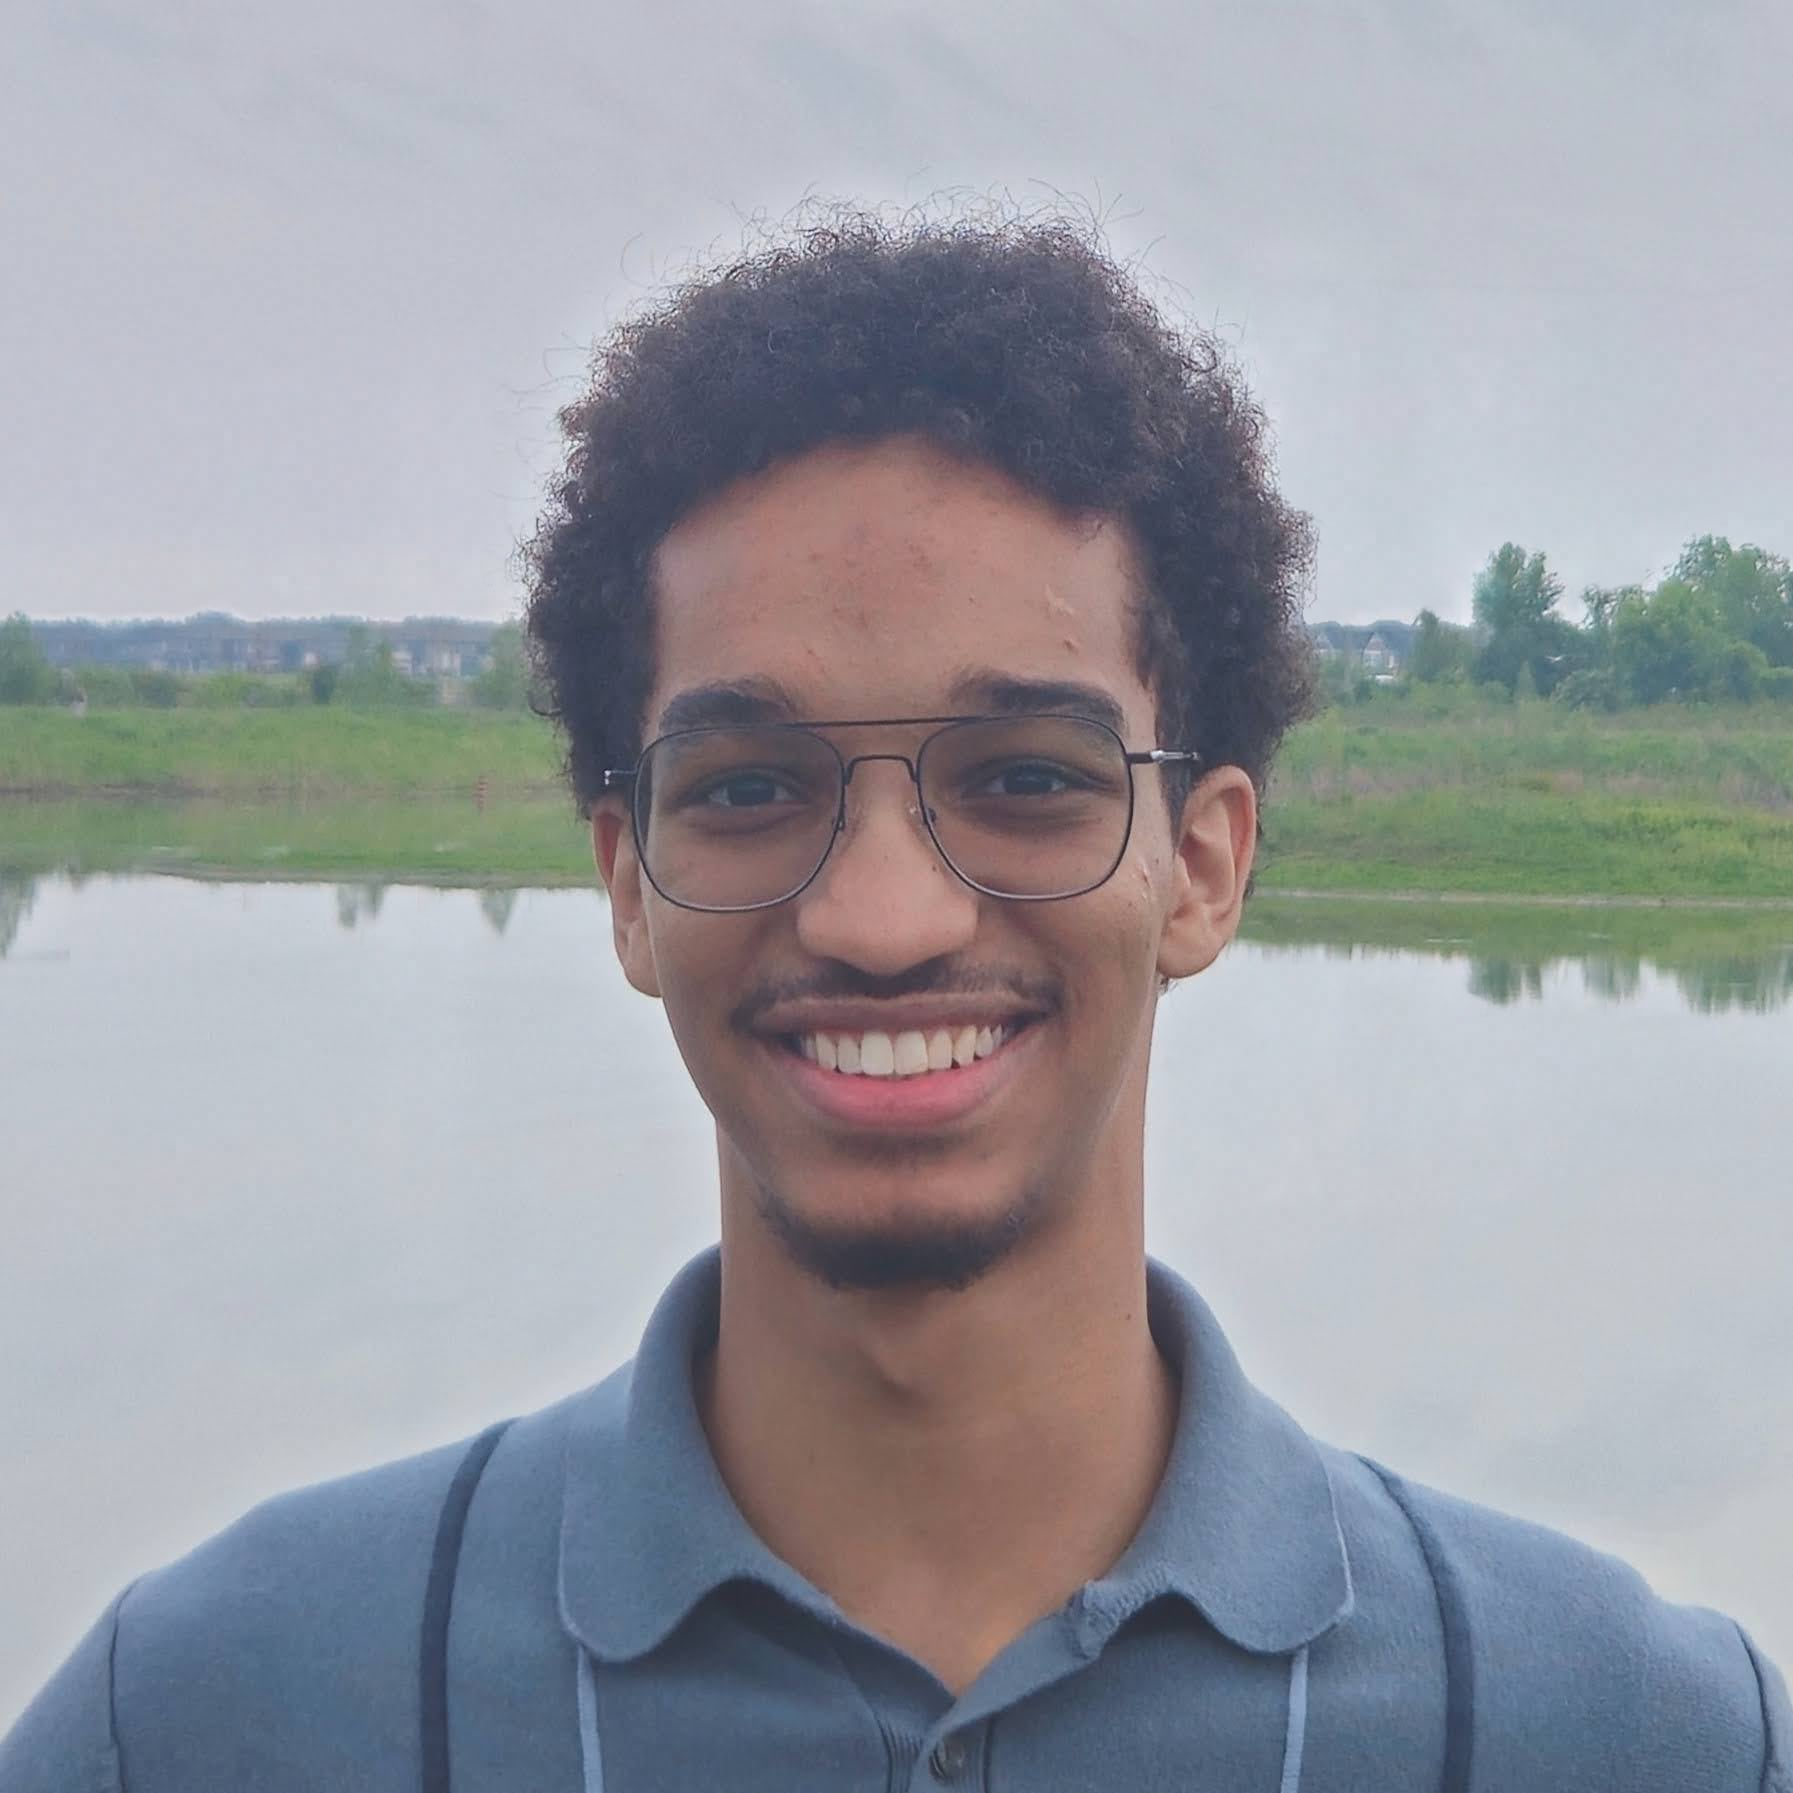
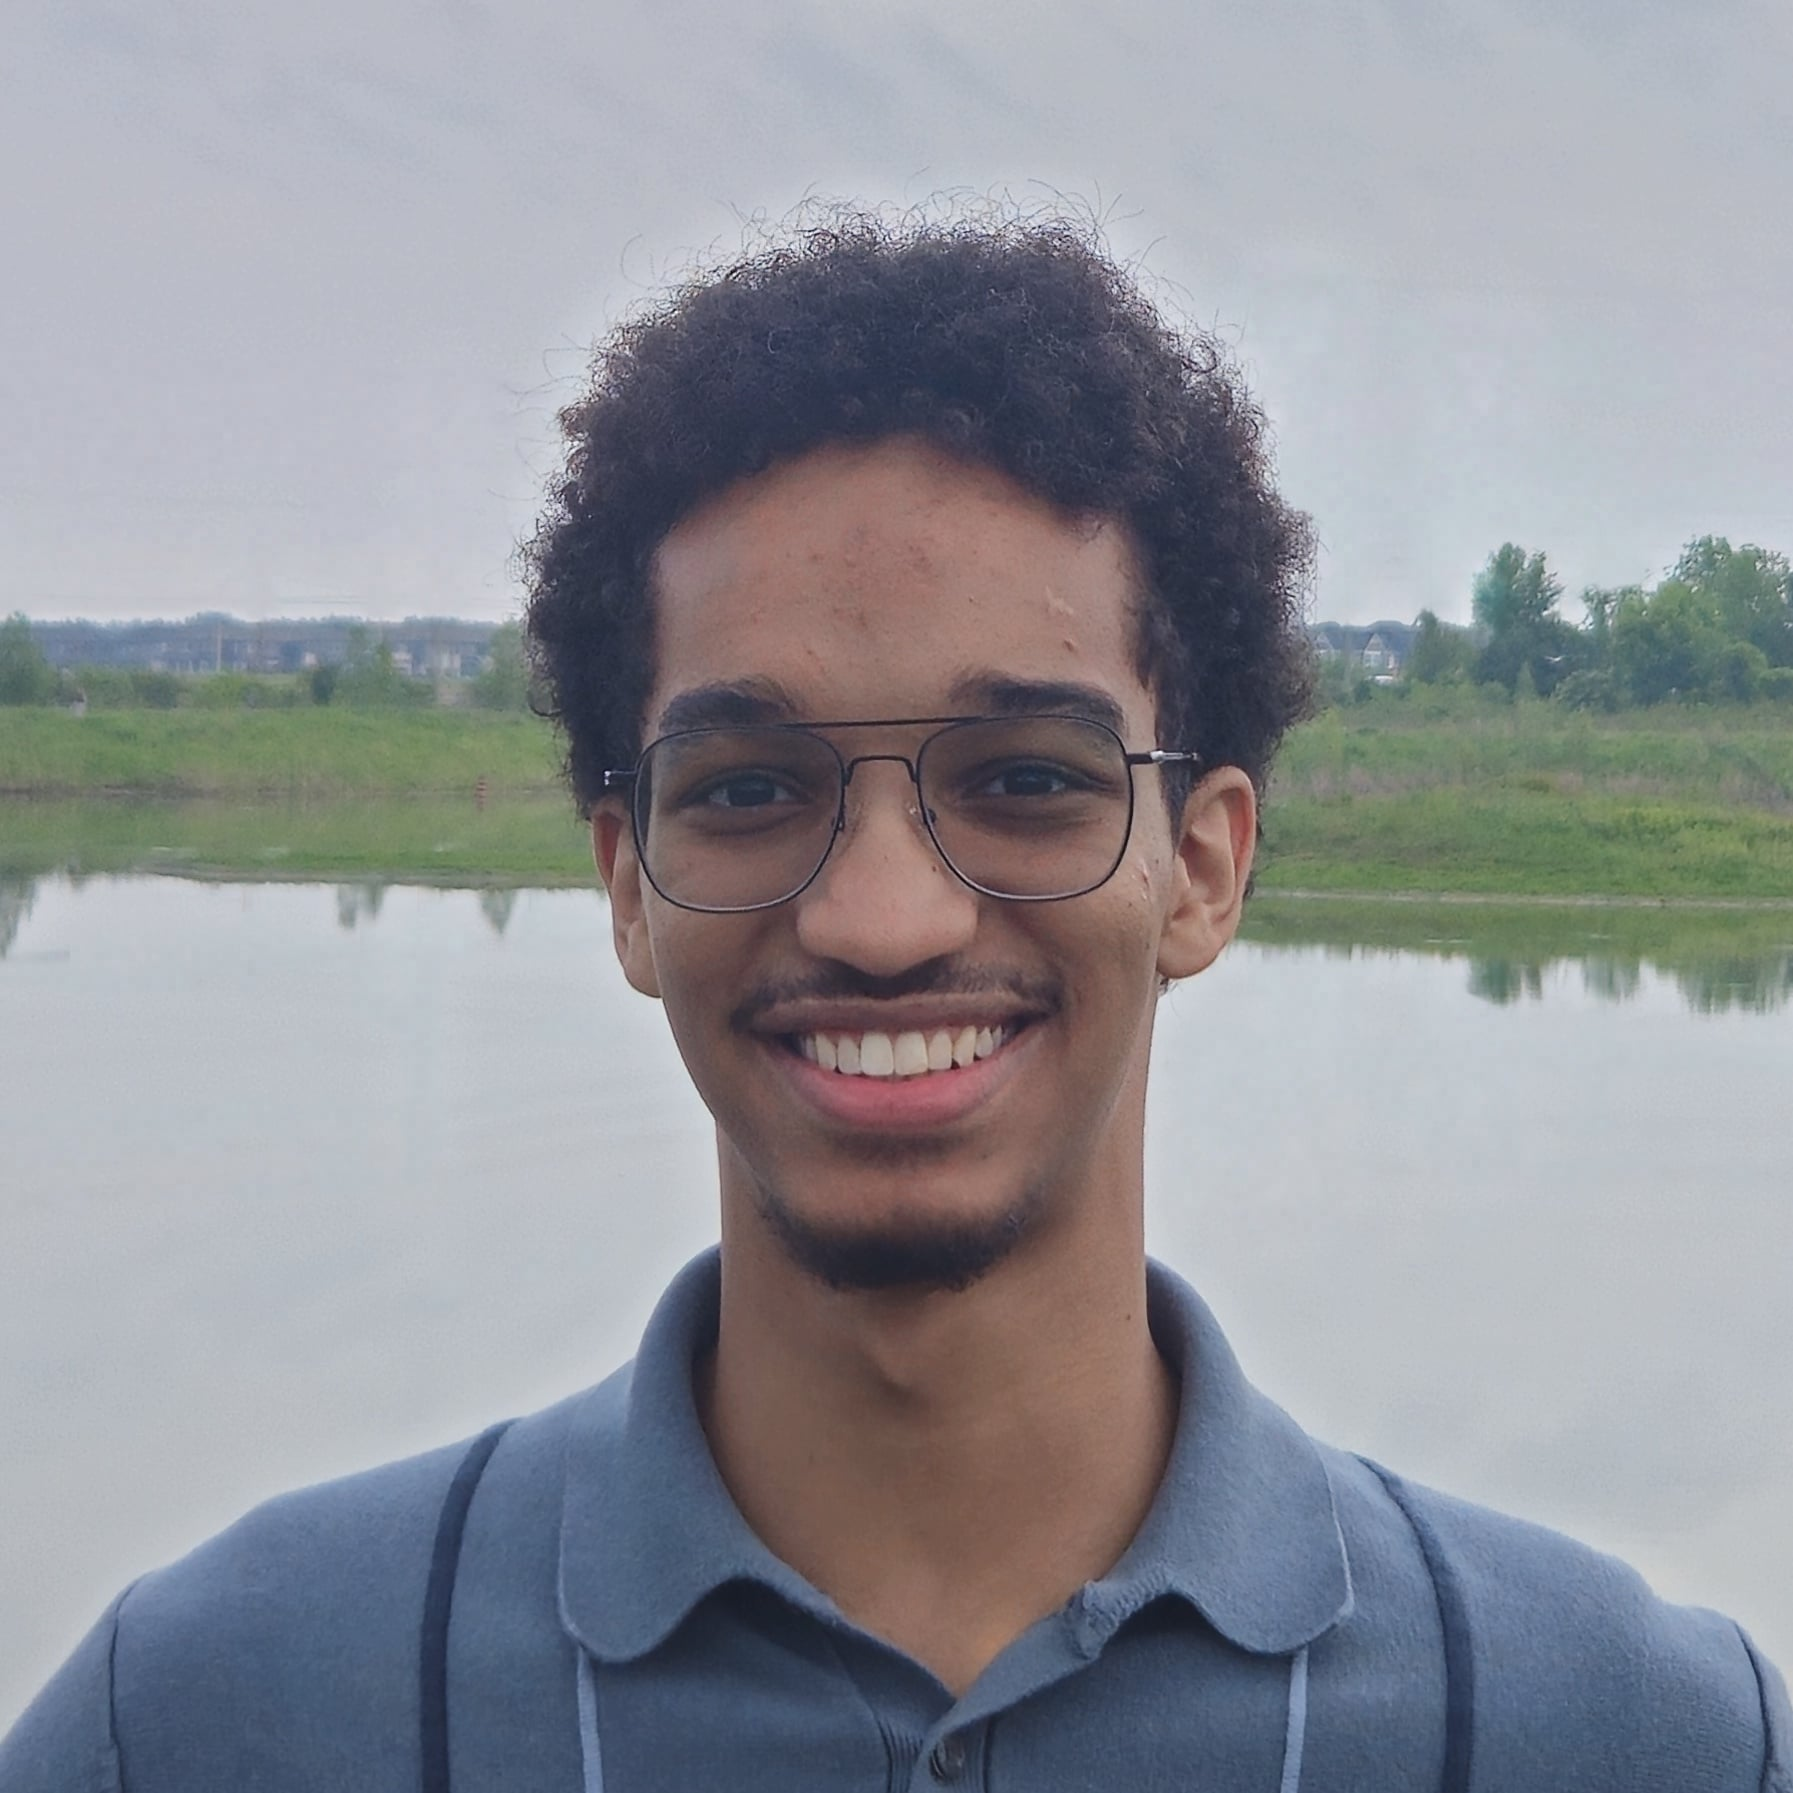
Replace the headshot with a sharper cut from the original photo

diff --git a/docs/superpowers/plans/2026-11-18-website-revamp-stage-1.md b/docs/superpowers/plans/2026-11-18-website-revamp-stage-1.md
@@ -940,6 +940,6 @@ above. Later plans should build on this section, not on the task text.
   Race Weekend 10K, sits beside the Hack the North one.
 - GitHub and LinkedIn appear in one order everywhere, GitHub first. The order
   lives in `src/lib/site.ts`, and both the top of the page and Contact read it.
-- The photo at the top is the owner's own edit of the headshot with the power
-  lines removed. On a phone it spans the column, above the name. Beside the
+- The photo at the top is cut from the full-resolution original, with the power
+  lines removed as in the owner's own edit. On a phone it spans the column, above the name. Beside the
   text it grows with the screen, up to 22rem on a desktop.
